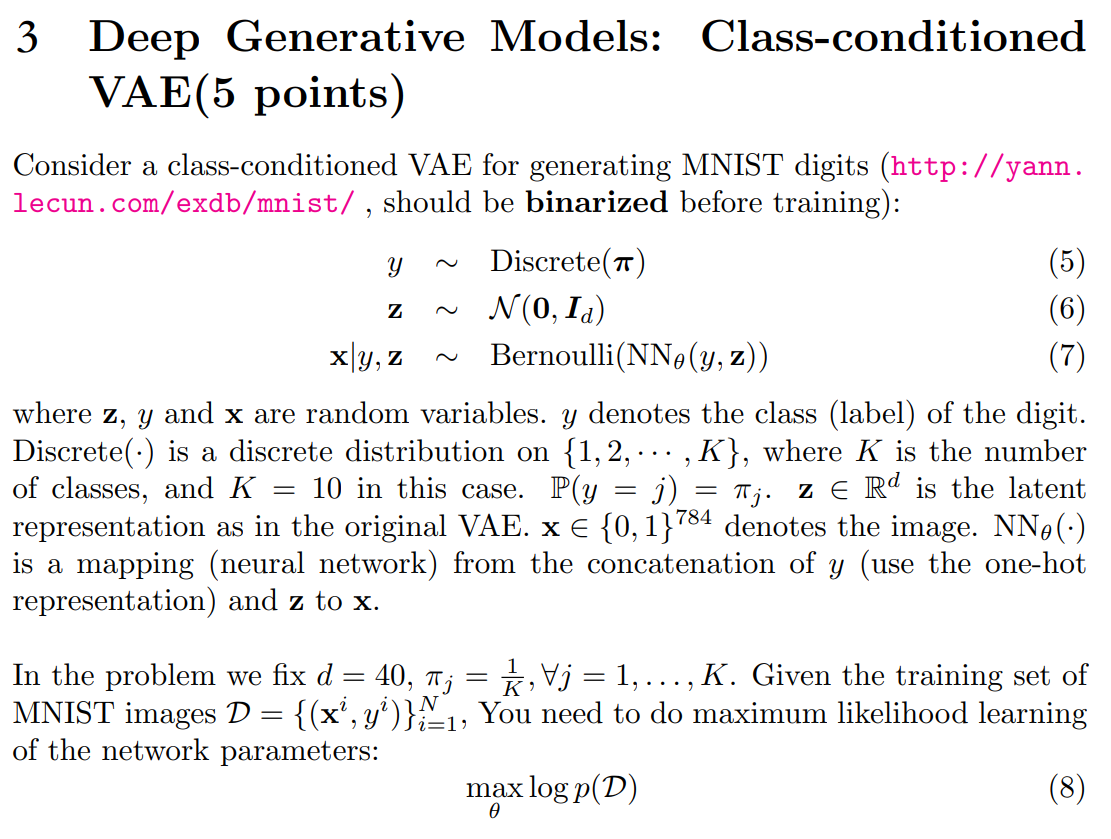
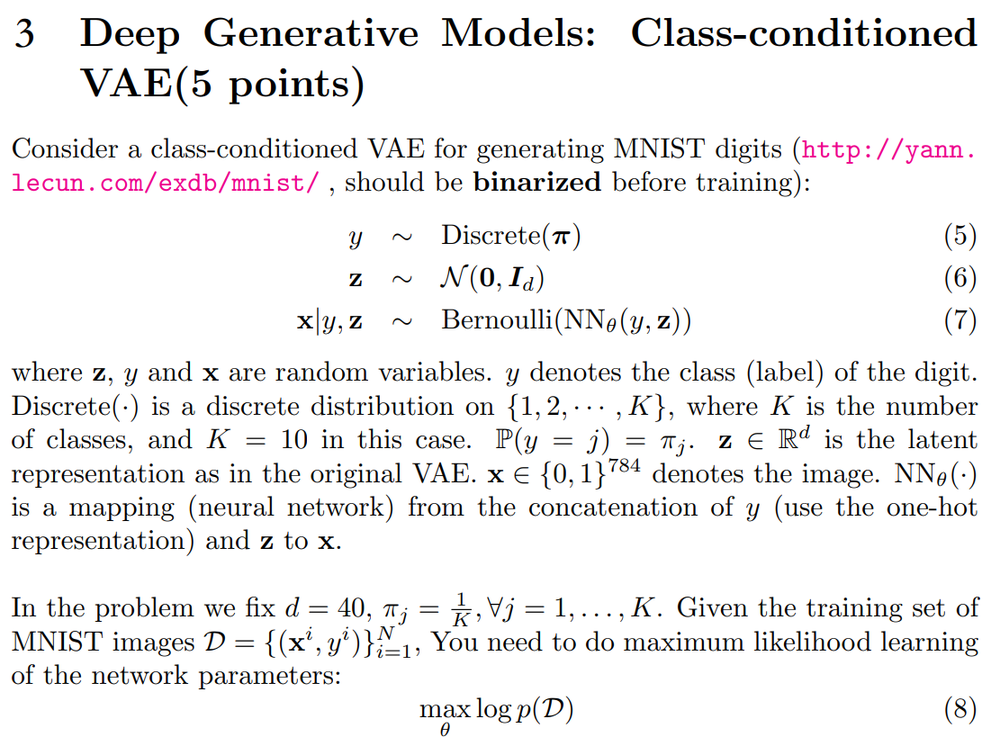
update image sizes

diff --git a/images/asdf.py b/images/asdf.py
@@ -1,0 +1,25 @@
+from PIL import Image, ImageOps
+import os
+
+
+def resize_images_in_folder(folder_path, new_width):
+    for filename in os.listdir(folder_path):
+        if filename.lower().endswith((".png", ".jpg", ".jpeg", ".gif", ".bmp")):
+            full_path = os.path.join(folder_path, filename)
+            with Image.open(full_path) as img:
+                # Calculate the new height to maintain the aspect ratio
+                width_percent = new_width / float(img.size[0])
+                new_height = int((float(img.size[1]) * float(width_percent)))
+
+                # Resize the image using LANCZOS resampling
+                img = img.resize((new_width, new_height), Image.Resampling.LANCZOS)
+
+                # Save the image, overwriting the existing file
+                img.save(full_path)
+                print(f"Resized {filename} to {new_width}x{new_height}")
+
+
+# Example usage
+folder_path = "../images"  # Change this to the path of your images
+new_width = 1000  # Set the new width you want for all images
+resize_images_in_folder(folder_path, new_width)
